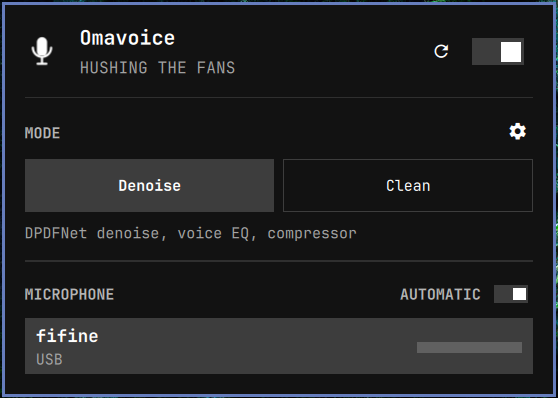
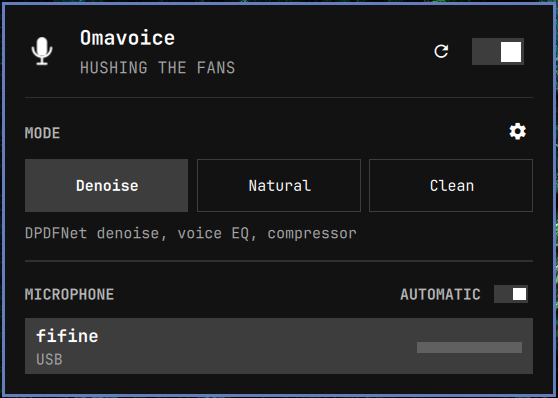
Retake the panel screenshot with Natural

Changed region(s): [[0.1219, 0.392, 0.5789, 0.5427], [0.6398, 0.392, 0.853, 0.5427]]

diff --git a/README.md b/README.md
@@ -17,7 +17,7 @@
 </p>
 
 <p align="center">
-  <img src="preview.png" alt="Omavoice DPDFNet panel: Denoise and Clean, selected mic with live level" width="380">
+  <img src="preview.png" alt="Omavoice DPDFNet panel: Denoise, Natural and Clean, selected mic with live level" width="380">
   <img src="docs/preview-tune.png" alt="Mode settings: Voice looks, Body / Presence / Air, Strength" width="380">
 </p>
 
